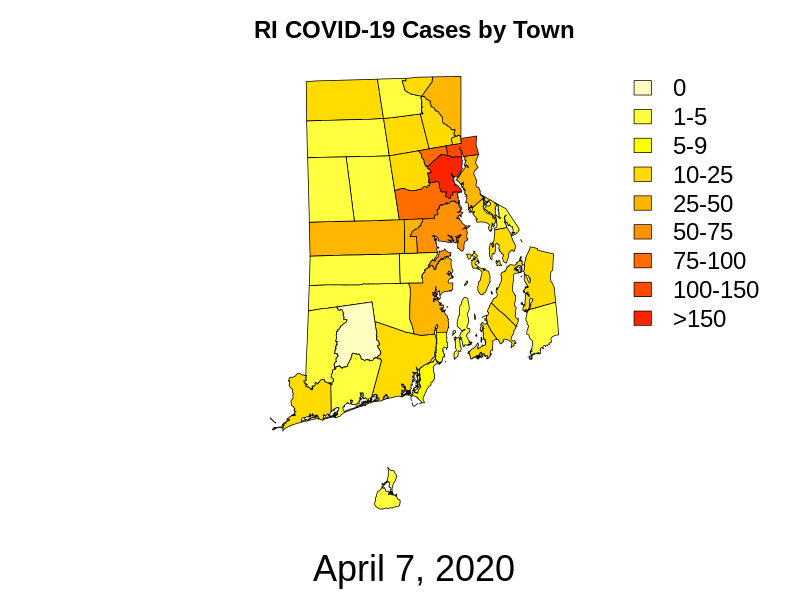
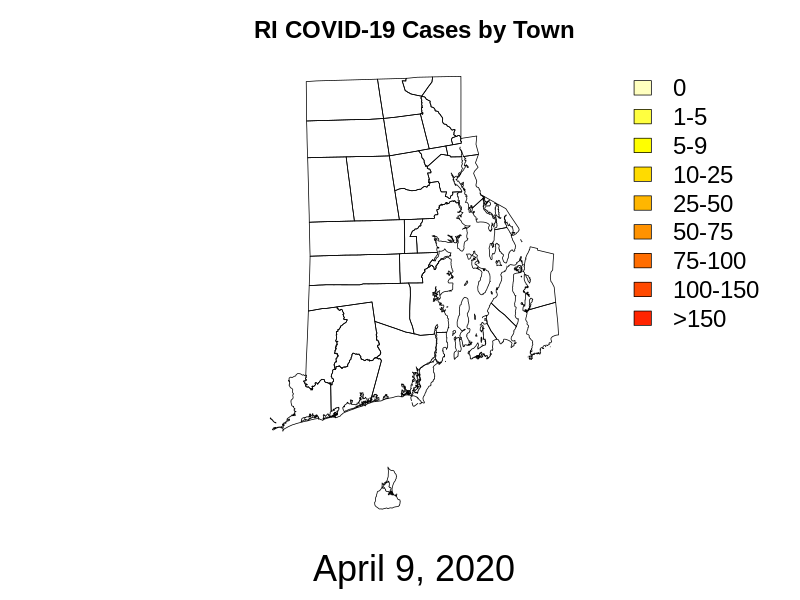
data/plot updated

Changed region(s): [[0.3438, 0.12, 0.7188, 0.72], [0.4688, 0.78, 0.5, 0.87], [0.5, 0.93, 0.5312, 0.96]]

diff --git a/index.html b/index.html
@@ -1165,48 +1165,48 @@ tt_Init();
 </script>
 <span id="tooltip" name="tooltip" class="tooltip" style="visibility:hidden;"></span>
 <map name="img-map" id="img-map">
-<area shape="circle" coords="418,89,10" onmouseover="Tip('Town&nbsp;&nbsp;:&nbsp;WOONSOCKET<br> Number&amp;nbsp;&amp;nbsp;: &amp;nbsp;20', FONTFACE,'Helvetica', FONTCOLOR, 'black', FONTSIZE, '25', BGCOLOR, '#D6E3F6')"   />
-<area shape="circle" coords="311,400,20" onmouseover="Tip('Town&nbsp;&nbsp;:&nbsp;WESTERLY<br> Number&amp;nbsp;&amp;nbsp;: &amp;nbsp;16', FONTFACE,'Helvetica', FONTCOLOR, 'black', FONTSIZE, '25', BGCOLOR, '#D6E3F6')"   />
-<area shape="circle" coords="412,237,10" onmouseover="Tip('Town&nbsp;&nbsp;:&nbsp;WEST WARWICK<br> Number&amp;nbsp;&amp;nbsp;: &amp;nbsp;28', FONTFACE,'Helvetica', FONTCOLOR, 'black', FONTSIZE, '25', BGCOLOR, '#D6E3F6')"   />
-<area shape="circle" coords="356,271,20" onmouseover="Tip('Town&nbsp;&nbsp;:&nbsp;WEST GREENWICH<br> Number&amp;nbsp;&amp;nbsp;: &amp;nbsp;<5', FONTFACE,'Helvetica', FONTCOLOR, 'black', FONTSIZE, '25', BGCOLOR, '#D6E3F6')"   />
-<area shape="circle" coords="442,231,20" onmouseover="Tip('Town&nbsp;&nbsp;:&nbsp;WARWICK<br> Number&amp;nbsp;&amp;nbsp;: &amp;nbsp;54', FONTFACE,'Helvetica', FONTCOLOR, 'black', FONTSIZE, '25', BGCOLOR, '#D6E3F6')"   />
-<area shape="circle" coords="506,222,10" onmouseover="Tip('Town&nbsp;&nbsp;:&nbsp;WARREN<br> Number&amp;nbsp;&amp;nbsp;: &amp;nbsp;<5', FONTFACE,'Helvetica', FONTCOLOR, 'black', FONTSIZE, '25', BGCOLOR, '#D6E3F6')"   />
-<area shape="circle" coords="539,281,20" onmouseover="Tip('Town&nbsp;&nbsp;:&nbsp;TIVERTON<br> Number&amp;nbsp;&amp;nbsp;: &amp;nbsp;12', FONTFACE,'Helvetica', FONTCOLOR, 'black', FONTSIZE, '25', BGCOLOR, '#D6E3F6')"   />
-<area shape="circle" coords="402,360,20" onmouseover="Tip('Town&nbsp;&nbsp;:&nbsp;SOUTH KINGSTOWN<br> Number&amp;nbsp;&amp;nbsp;: &amp;nbsp;20', FONTFACE,'Helvetica', FONTCOLOR, 'black', FONTSIZE, '25', BGCOLOR, '#D6E3F6')"   />
-<area shape="circle" coords="407,138,20" onmouseover="Tip('Town&nbsp;&nbsp;:&nbsp;SMITHFIELD<br> Number&amp;nbsp;&amp;nbsp;: &amp;nbsp;19', FONTFACE,'Helvetica', FONTCOLOR, 'black', FONTSIZE, '25', BGCOLOR, '#D6E3F6')"   />
-<area shape="circle" coords="374,191,20" onmouseover="Tip('Town&nbsp;&nbsp;:&nbsp;SCITUATE<br> Number&amp;nbsp;&amp;nbsp;: &amp;nbsp;5', FONTFACE,'Helvetica', FONTCOLOR, 'black', FONTSIZE, '25', BGCOLOR, '#D6E3F6')"   />
-<area shape="circle" coords="359,335,20" onmouseover="Tip('Town&nbsp;&nbsp;:&nbsp;RICHMOND<br> Number&amp;nbsp;&amp;nbsp;: &amp;nbsp;0', FONTFACE,'Helvetica', FONTCOLOR, 'black', FONTSIZE, '25', BGCOLOR, '#D6E3F6')"   />
-<area shape="circle" coords="447,176,15" onmouseover="Tip('Town&nbsp;&nbsp;:&nbsp;PROVIDENCE<br> Number&amp;nbsp;&amp;nbsp;: &amp;nbsp;217', FONTFACE,'Helvetica', FONTCOLOR, 'black', FONTSIZE, '25', BGCOLOR, '#D6E3F6')"   />
-<area shape="circle" coords="508,295,15" onmouseover="Tip('Town&nbsp;&nbsp;:&nbsp;PORTSMOUTH<br> Number&amp;nbsp;&amp;nbsp;: &amp;nbsp;13', FONTFACE,'Helvetica', FONTCOLOR, 'black', FONTSIZE, '25', BGCOLOR, '#D6E3F6')"   />
-<area shape="circle" coords="464,151,10" onmouseover="Tip('Town&nbsp;&nbsp;:&nbsp;PAWTUCKET<br> Number&amp;nbsp;&amp;nbsp;: &amp;nbsp;133', FONTFACE,'Helvetica', FONTCOLOR, 'black', FONTSIZE, '25', BGCOLOR, '#D6E3F6')"   />
-<area shape="circle" coords="399,103,20" onmouseover="Tip('Town&nbsp;&nbsp;:&nbsp;NORTH SMITHFIELD<br> Number&amp;nbsp;&amp;nbsp;: &amp;nbsp;5', FONTFACE,'Helvetica', FONTCOLOR, 'black', FONTSIZE, '25', BGCOLOR, '#D6E3F6')"   />
-<area shape="circle" coords="434,157,10" onmouseover="Tip('Town&nbsp;&nbsp;:&nbsp;NORTH PROVIDENCE<br> Number&amp;nbsp;&amp;nbsp;: &amp;nbsp;84', FONTFACE,'Helvetica', FONTCOLOR, 'black', FONTSIZE, '25', BGCOLOR, '#D6E3F6')"   />
-<area shape="circle" coords="431,301,20" onmouseover="Tip('Town&nbsp;&nbsp;:&nbsp;NORTH KINGSTOWN<br> Number&amp;nbsp;&amp;nbsp;: &amp;nbsp;32', FONTFACE,'Helvetica', FONTCOLOR, 'black', FONTSIZE, '25', BGCOLOR, '#D6E3F6')"   />
-<area shape="circle" coords="485,344,10" onmouseover="Tip('Town&nbsp;&nbsp;:&nbsp;NEWPORT<br> Number&amp;nbsp;&amp;nbsp;: &amp;nbsp;14', FONTFACE,'Helvetica', FONTCOLOR, 'black', FONTSIZE, '25', BGCOLOR, '#D6E3F6')"   />
-<area shape="circle" coords="389,493,15" onmouseover="Tip('Town&nbsp;&nbsp;:&nbsp;NEW SHOREHAM<br> Number&amp;nbsp;&amp;nbsp;: &amp;nbsp;<5', FONTFACE,'Helvetica', FONTCOLOR, 'black', FONTSIZE, '25', BGCOLOR, '#D6E3F6')"   />
-<area shape="circle" coords="426,380,10" onmouseover="Tip('Town&nbsp;&nbsp;:&nbsp;NARRAGANSETT<br> Number&amp;nbsp;&amp;nbsp;: &amp;nbsp;8', FONTFACE,'Helvetica', FONTCOLOR, 'black', FONTSIZE, '25', BGCOLOR, '#D6E3F6')"   />
-<area shape="circle" coords="501,326,15" onmouseover="Tip('Town&nbsp;&nbsp;:&nbsp;MIDDLETOWN<br> Number&amp;nbsp;&amp;nbsp;: &amp;nbsp;11', FONTFACE,'Helvetica', FONTCOLOR, 'black', FONTSIZE, '25', BGCOLOR, '#D6E3F6')"   />
-<area shape="circle" coords="542,327,15" onmouseover="Tip('Town&nbsp;&nbsp;:&nbsp;LITTLE COMPTON<br> Number&amp;nbsp;&amp;nbsp;: &amp;nbsp;<5', FONTFACE,'Helvetica', FONTCOLOR, 'black', FONTSIZE, '25', BGCOLOR, '#D6E3F6')"   />
-<area shape="circle" coords="436,130,15" onmouseover="Tip('Town&nbsp;&nbsp;:&nbsp;LINCOLN<br> Number&amp;nbsp;&amp;nbsp;: &amp;nbsp;13', FONTFACE,'Helvetica', FONTCOLOR, 'black', FONTSIZE, '25', BGCOLOR, '#D6E3F6')"   />
-<area shape="circle" coords="411,174,15" onmouseover="Tip('Town&nbsp;&nbsp;:&nbsp;JOHNSTON<br> Number&amp;nbsp;&amp;nbsp;: &amp;nbsp;21', FONTFACE,'Helvetica', FONTCOLOR, 'black', FONTSIZE, '25', BGCOLOR, '#D6E3F6')"   />
-<area shape="circle" coords="464,327,15" onmouseover="Tip('Town&nbsp;&nbsp;:&nbsp;JAMESTOWN<br> Number&amp;nbsp;&amp;nbsp;: &amp;nbsp;5', FONTFACE,'Helvetica', FONTCOLOR, 'black', FONTSIZE, '25', BGCOLOR, '#D6E3F6')"   />
-<area shape="circle" coords="324,345,20" onmouseover="Tip('Town&nbsp;&nbsp;:&nbsp;HOPKINTON<br> Number&amp;nbsp;&amp;nbsp;: &amp;nbsp;<5', FONTFACE,'Helvetica', FONTCOLOR, 'black', FONTSIZE, '25', BGCOLOR, '#D6E3F6')"   />
-<area shape="circle" coords="349,142,20" onmouseover="Tip('Town&nbsp;&nbsp;:&nbsp;GLOCESTER<br> Number&amp;nbsp;&amp;nbsp;: &amp;nbsp;<5', FONTFACE,'Helvetica', FONTCOLOR, 'black', FONTSIZE, '25', BGCOLOR, '#D6E3F6')"   />
-<area shape="circle" coords="331,193,20" onmouseover="Tip('Town&nbsp;&nbsp;:&nbsp;FOSTER<br> Number&amp;nbsp;&amp;nbsp;: &amp;nbsp;<5', FONTFACE,'Helvetica', FONTCOLOR, 'black', FONTSIZE, '25', BGCOLOR, '#D6E3F6')"   />
-<area shape="circle" coords="370,302,20" onmouseover="Tip('Town&nbsp;&nbsp;:&nbsp;EXETER<br> Number&amp;nbsp;&amp;nbsp;: &amp;nbsp;<5', FONTFACE,'Helvetica', FONTCOLOR, 'black', FONTSIZE, '25', BGCOLOR, '#D6E3F6')"   />
-<area shape="circle" coords="471,184,15" onmouseover="Tip('Town&nbsp;&nbsp;:&nbsp;EAST PROVIDENCE<br> Number&amp;nbsp;&amp;nbsp;: &amp;nbsp;41', FONTFACE,'Helvetica', FONTCOLOR, 'black', FONTSIZE, '25', BGCOLOR, '#D6E3F6')"   />
-<area shape="circle" coords="416,268,15" onmouseover="Tip('Town&nbsp;&nbsp;:&nbsp;EAST GREENWICH<br> Number&amp;nbsp;&amp;nbsp;: &amp;nbsp;5', FONTFACE,'Helvetica', FONTCOLOR, 'black', FONTSIZE, '25', BGCOLOR, '#D6E3F6')"   />
-<area shape="circle" coords="448,104,20" onmouseover="Tip('Town&nbsp;&nbsp;:&nbsp;CUMBERLAND<br> Number&amp;nbsp;&amp;nbsp;: &amp;nbsp;34', FONTFACE,'Helvetica', FONTCOLOR, 'black', FONTSIZE, '25', BGCOLOR, '#D6E3F6')"   />
-<area shape="circle" coords="423,204,20" onmouseover="Tip('Town&nbsp;&nbsp;:&nbsp;CRANSTON<br> Number&amp;nbsp;&amp;nbsp;: &amp;nbsp;90', FONTFACE,'Helvetica', FONTCOLOR, 'black', FONTSIZE, '25', BGCOLOR, '#D6E3F6')"   />
-<area shape="circle" coords="359,240,20" onmouseover="Tip('Town&nbsp;&nbsp;:&nbsp;COVENTRY<br> Number&amp;nbsp;&amp;nbsp;: &amp;nbsp;37', FONTFACE,'Helvetica', FONTCOLOR, 'black', FONTSIZE, '25', BGCOLOR, '#D6E3F6')"   />
-<area shape="circle" coords="355,383,20" onmouseover="Tip('Town&nbsp;&nbsp;:&nbsp;CHARLESTOWN<br> Number&amp;nbsp;&amp;nbsp;: &amp;nbsp;<5', FONTFACE,'Helvetica', FONTCOLOR, 'black', FONTSIZE, '25', BGCOLOR, '#D6E3F6')"   />
-<area shape="circle" coords="457,143,10" onmouseover="Tip('Town&nbsp;&nbsp;:&nbsp;CENTRAL FALLS<br> Number&amp;nbsp;&amp;nbsp;: &amp;nbsp;15', FONTFACE,'Helvetica', FONTCOLOR, 'black', FONTSIZE, '25', BGCOLOR, '#D6E3F6')"   />
-<area shape="circle" coords="345,104,20" onmouseover="Tip('Town&nbsp;&nbsp;:&nbsp;BURRILLVILLE<br> Number&amp;nbsp;&amp;nbsp;: &amp;nbsp;16', FONTFACE,'Helvetica', FONTCOLOR, 'black', FONTSIZE, '25', BGCOLOR, '#D6E3F6')"   />
-<area shape="circle" coords="503,245,15" onmouseover="Tip('Town&nbsp;&nbsp;:&nbsp;BRISTOL<br> Number&amp;nbsp;&amp;nbsp;: &amp;nbsp;14', FONTFACE,'Helvetica', FONTCOLOR, 'black', FONTSIZE, '25', BGCOLOR, '#D6E3F6')"   />
-<area shape="circle" coords="484,217,10" onmouseover="Tip('Town&nbsp;&nbsp;:&nbsp;BARRINGTON<br> Number&amp;nbsp;&amp;nbsp;: &amp;nbsp;15', FONTFACE,'Helvetica', FONTCOLOR, 'black', FONTSIZE, '25', BGCOLOR, '#D6E3F6')"   />
-<area shape="circle" coords="482,278,10" onmouseover="Tip('Town&nbsp;&nbsp;:&nbsp;PORTSMOUTH<br> Number&amp;nbsp;&amp;nbsp;: &amp;nbsp;13', FONTFACE,'Helvetica', FONTCOLOR, 'black', FONTSIZE, '25', BGCOLOR, '#D6E3F6')"   />
-<area shape="circle" coords="442,346,10" onmouseover="Tip('Town&nbsp;&nbsp;:&nbsp;NARRAGANSETT<br> Number&amp;nbsp;&amp;nbsp;: &amp;nbsp;8', FONTFACE,'Helvetica', FONTCOLOR, 'black', FONTSIZE, '25', BGCOLOR, '#D6E3F6')"   />
-<area shape="circle" coords="441,260,10" onmouseover="Tip('Town&nbsp;&nbsp;:&nbsp;WARWICK<br> Number&amp;nbsp;&amp;nbsp;: &amp;nbsp;54', FONTFACE,'Helvetica', FONTCOLOR, 'black', FONTSIZE, '25', BGCOLOR, '#D6E3F6')"   />
+<area shape="circle" coords="418,89,10" onmouseover="Tip('Town&nbsp;&nbsp;:&nbsp;WOONSOCKET<br> Number&amp;nbsp;&amp;nbsp;: &amp;nbsp;NA', FONTFACE,'Helvetica', FONTCOLOR, 'black', FONTSIZE, '25', BGCOLOR, '#D6E3F6')"   />
+<area shape="circle" coords="311,400,20" onmouseover="Tip('Town&nbsp;&nbsp;:&nbsp;WESTERLY<br> Number&amp;nbsp;&amp;nbsp;: &amp;nbsp;NA', FONTFACE,'Helvetica', FONTCOLOR, 'black', FONTSIZE, '25', BGCOLOR, '#D6E3F6')"   />
+<area shape="circle" coords="412,237,10" onmouseover="Tip('Town&nbsp;&nbsp;:&nbsp;WEST WARWICK<br> Number&amp;nbsp;&amp;nbsp;: &amp;nbsp;NA', FONTFACE,'Helvetica', FONTCOLOR, 'black', FONTSIZE, '25', BGCOLOR, '#D6E3F6')"   />
+<area shape="circle" coords="356,271,20" onmouseover="Tip('Town&nbsp;&nbsp;:&nbsp;WEST GREENWICH<br> Number&amp;nbsp;&amp;nbsp;: &amp;nbsp;NA', FONTFACE,'Helvetica', FONTCOLOR, 'black', FONTSIZE, '25', BGCOLOR, '#D6E3F6')"   />
+<area shape="circle" coords="442,231,20" onmouseover="Tip('Town&nbsp;&nbsp;:&nbsp;WARWICK<br> Number&amp;nbsp;&amp;nbsp;: &amp;nbsp;NA', FONTFACE,'Helvetica', FONTCOLOR, 'black', FONTSIZE, '25', BGCOLOR, '#D6E3F6')"   />
+<area shape="circle" coords="506,222,10" onmouseover="Tip('Town&nbsp;&nbsp;:&nbsp;WARREN<br> Number&amp;nbsp;&amp;nbsp;: &amp;nbsp;NA', FONTFACE,'Helvetica', FONTCOLOR, 'black', FONTSIZE, '25', BGCOLOR, '#D6E3F6')"   />
+<area shape="circle" coords="539,281,20" onmouseover="Tip('Town&nbsp;&nbsp;:&nbsp;TIVERTON<br> Number&amp;nbsp;&amp;nbsp;: &amp;nbsp;NA', FONTFACE,'Helvetica', FONTCOLOR, 'black', FONTSIZE, '25', BGCOLOR, '#D6E3F6')"   />
+<area shape="circle" coords="402,360,20" onmouseover="Tip('Town&nbsp;&nbsp;:&nbsp;SOUTH KINGSTOWN<br> Number&amp;nbsp;&amp;nbsp;: &amp;nbsp;NA', FONTFACE,'Helvetica', FONTCOLOR, 'black', FONTSIZE, '25', BGCOLOR, '#D6E3F6')"   />
+<area shape="circle" coords="407,138,20" onmouseover="Tip('Town&nbsp;&nbsp;:&nbsp;SMITHFIELD<br> Number&amp;nbsp;&amp;nbsp;: &amp;nbsp;NA', FONTFACE,'Helvetica', FONTCOLOR, 'black', FONTSIZE, '25', BGCOLOR, '#D6E3F6')"   />
+<area shape="circle" coords="374,191,20" onmouseover="Tip('Town&nbsp;&nbsp;:&nbsp;SCITUATE<br> Number&amp;nbsp;&amp;nbsp;: &amp;nbsp;NA', FONTFACE,'Helvetica', FONTCOLOR, 'black', FONTSIZE, '25', BGCOLOR, '#D6E3F6')"   />
+<area shape="circle" coords="359,335,20" onmouseover="Tip('Town&nbsp;&nbsp;:&nbsp;RICHMOND<br> Number&amp;nbsp;&amp;nbsp;: &amp;nbsp;NA', FONTFACE,'Helvetica', FONTCOLOR, 'black', FONTSIZE, '25', BGCOLOR, '#D6E3F6')"   />
+<area shape="circle" coords="447,176,15" onmouseover="Tip('Town&nbsp;&nbsp;:&nbsp;PROVIDENCE<br> Number&amp;nbsp;&amp;nbsp;: &amp;nbsp;NA', FONTFACE,'Helvetica', FONTCOLOR, 'black', FONTSIZE, '25', BGCOLOR, '#D6E3F6')"   />
+<area shape="circle" coords="508,295,15" onmouseover="Tip('Town&nbsp;&nbsp;:&nbsp;PORTSMOUTH<br> Number&amp;nbsp;&amp;nbsp;: &amp;nbsp;NA', FONTFACE,'Helvetica', FONTCOLOR, 'black', FONTSIZE, '25', BGCOLOR, '#D6E3F6')"   />
+<area shape="circle" coords="464,151,10" onmouseover="Tip('Town&nbsp;&nbsp;:&nbsp;PAWTUCKET<br> Number&amp;nbsp;&amp;nbsp;: &amp;nbsp;NA', FONTFACE,'Helvetica', FONTCOLOR, 'black', FONTSIZE, '25', BGCOLOR, '#D6E3F6')"   />
+<area shape="circle" coords="399,103,20" onmouseover="Tip('Town&nbsp;&nbsp;:&nbsp;NORTH SMITHFIELD<br> Number&amp;nbsp;&amp;nbsp;: &amp;nbsp;NA', FONTFACE,'Helvetica', FONTCOLOR, 'black', FONTSIZE, '25', BGCOLOR, '#D6E3F6')"   />
+<area shape="circle" coords="434,157,10" onmouseover="Tip('Town&nbsp;&nbsp;:&nbsp;NORTH PROVIDENCE<br> Number&amp;nbsp;&amp;nbsp;: &amp;nbsp;NA', FONTFACE,'Helvetica', FONTCOLOR, 'black', FONTSIZE, '25', BGCOLOR, '#D6E3F6')"   />
+<area shape="circle" coords="431,301,20" onmouseover="Tip('Town&nbsp;&nbsp;:&nbsp;NORTH KINGSTOWN<br> Number&amp;nbsp;&amp;nbsp;: &amp;nbsp;NA', FONTFACE,'Helvetica', FONTCOLOR, 'black', FONTSIZE, '25', BGCOLOR, '#D6E3F6')"   />
+<area shape="circle" coords="485,344,10" onmouseover="Tip('Town&nbsp;&nbsp;:&nbsp;NEWPORT<br> Number&amp;nbsp;&amp;nbsp;: &amp;nbsp;NA', FONTFACE,'Helvetica', FONTCOLOR, 'black', FONTSIZE, '25', BGCOLOR, '#D6E3F6')"   />
+<area shape="circle" coords="389,493,15" onmouseover="Tip('Town&nbsp;&nbsp;:&nbsp;NEW SHOREHAM<br> Number&amp;nbsp;&amp;nbsp;: &amp;nbsp;NA', FONTFACE,'Helvetica', FONTCOLOR, 'black', FONTSIZE, '25', BGCOLOR, '#D6E3F6')"   />
+<area shape="circle" coords="426,380,10" onmouseover="Tip('Town&nbsp;&nbsp;:&nbsp;NARRAGANSETT<br> Number&amp;nbsp;&amp;nbsp;: &amp;nbsp;NA', FONTFACE,'Helvetica', FONTCOLOR, 'black', FONTSIZE, '25', BGCOLOR, '#D6E3F6')"   />
+<area shape="circle" coords="501,326,15" onmouseover="Tip('Town&nbsp;&nbsp;:&nbsp;MIDDLETOWN<br> Number&amp;nbsp;&amp;nbsp;: &amp;nbsp;NA', FONTFACE,'Helvetica', FONTCOLOR, 'black', FONTSIZE, '25', BGCOLOR, '#D6E3F6')"   />
+<area shape="circle" coords="542,327,15" onmouseover="Tip('Town&nbsp;&nbsp;:&nbsp;LITTLE COMPTON<br> Number&amp;nbsp;&amp;nbsp;: &amp;nbsp;NA', FONTFACE,'Helvetica', FONTCOLOR, 'black', FONTSIZE, '25', BGCOLOR, '#D6E3F6')"   />
+<area shape="circle" coords="436,130,15" onmouseover="Tip('Town&nbsp;&nbsp;:&nbsp;LINCOLN<br> Number&amp;nbsp;&amp;nbsp;: &amp;nbsp;NA', FONTFACE,'Helvetica', FONTCOLOR, 'black', FONTSIZE, '25', BGCOLOR, '#D6E3F6')"   />
+<area shape="circle" coords="411,174,15" onmouseover="Tip('Town&nbsp;&nbsp;:&nbsp;JOHNSTON<br> Number&amp;nbsp;&amp;nbsp;: &amp;nbsp;NA', FONTFACE,'Helvetica', FONTCOLOR, 'black', FONTSIZE, '25', BGCOLOR, '#D6E3F6')"   />
+<area shape="circle" coords="464,327,15" onmouseover="Tip('Town&nbsp;&nbsp;:&nbsp;JAMESTOWN<br> Number&amp;nbsp;&amp;nbsp;: &amp;nbsp;NA', FONTFACE,'Helvetica', FONTCOLOR, 'black', FONTSIZE, '25', BGCOLOR, '#D6E3F6')"   />
+<area shape="circle" coords="324,345,20" onmouseover="Tip('Town&nbsp;&nbsp;:&nbsp;HOPKINTON<br> Number&amp;nbsp;&amp;nbsp;: &amp;nbsp;NA', FONTFACE,'Helvetica', FONTCOLOR, 'black', FONTSIZE, '25', BGCOLOR, '#D6E3F6')"   />
+<area shape="circle" coords="349,142,20" onmouseover="Tip('Town&nbsp;&nbsp;:&nbsp;GLOCESTER<br> Number&amp;nbsp;&amp;nbsp;: &amp;nbsp;NA', FONTFACE,'Helvetica', FONTCOLOR, 'black', FONTSIZE, '25', BGCOLOR, '#D6E3F6')"   />
+<area shape="circle" coords="331,193,20" onmouseover="Tip('Town&nbsp;&nbsp;:&nbsp;FOSTER<br> Number&amp;nbsp;&amp;nbsp;: &amp;nbsp;NA', FONTFACE,'Helvetica', FONTCOLOR, 'black', FONTSIZE, '25', BGCOLOR, '#D6E3F6')"   />
+<area shape="circle" coords="370,302,20" onmouseover="Tip('Town&nbsp;&nbsp;:&nbsp;EXETER<br> Number&amp;nbsp;&amp;nbsp;: &amp;nbsp;NA', FONTFACE,'Helvetica', FONTCOLOR, 'black', FONTSIZE, '25', BGCOLOR, '#D6E3F6')"   />
+<area shape="circle" coords="471,184,15" onmouseover="Tip('Town&nbsp;&nbsp;:&nbsp;EAST PROVIDENCE<br> Number&amp;nbsp;&amp;nbsp;: &amp;nbsp;NA', FONTFACE,'Helvetica', FONTCOLOR, 'black', FONTSIZE, '25', BGCOLOR, '#D6E3F6')"   />
+<area shape="circle" coords="416,268,15" onmouseover="Tip('Town&nbsp;&nbsp;:&nbsp;EAST GREENWICH<br> Number&amp;nbsp;&amp;nbsp;: &amp;nbsp;NA', FONTFACE,'Helvetica', FONTCOLOR, 'black', FONTSIZE, '25', BGCOLOR, '#D6E3F6')"   />
+<area shape="circle" coords="448,104,20" onmouseover="Tip('Town&nbsp;&nbsp;:&nbsp;CUMBERLAND<br> Number&amp;nbsp;&amp;nbsp;: &amp;nbsp;NA', FONTFACE,'Helvetica', FONTCOLOR, 'black', FONTSIZE, '25', BGCOLOR, '#D6E3F6')"   />
+<area shape="circle" coords="423,204,20" onmouseover="Tip('Town&nbsp;&nbsp;:&nbsp;CRANSTON<br> Number&amp;nbsp;&amp;nbsp;: &amp;nbsp;NA', FONTFACE,'Helvetica', FONTCOLOR, 'black', FONTSIZE, '25', BGCOLOR, '#D6E3F6')"   />
+<area shape="circle" coords="359,240,20" onmouseover="Tip('Town&nbsp;&nbsp;:&nbsp;COVENTRY<br> Number&amp;nbsp;&amp;nbsp;: &amp;nbsp;NA', FONTFACE,'Helvetica', FONTCOLOR, 'black', FONTSIZE, '25', BGCOLOR, '#D6E3F6')"   />
+<area shape="circle" coords="355,383,20" onmouseover="Tip('Town&nbsp;&nbsp;:&nbsp;CHARLESTOWN<br> Number&amp;nbsp;&amp;nbsp;: &amp;nbsp;NA', FONTFACE,'Helvetica', FONTCOLOR, 'black', FONTSIZE, '25', BGCOLOR, '#D6E3F6')"   />
+<area shape="circle" coords="457,143,10" onmouseover="Tip('Town&nbsp;&nbsp;:&nbsp;CENTRAL FALLS<br> Number&amp;nbsp;&amp;nbsp;: &amp;nbsp;NA', FONTFACE,'Helvetica', FONTCOLOR, 'black', FONTSIZE, '25', BGCOLOR, '#D6E3F6')"   />
+<area shape="circle" coords="345,104,20" onmouseover="Tip('Town&nbsp;&nbsp;:&nbsp;BURRILLVILLE<br> Number&amp;nbsp;&amp;nbsp;: &amp;nbsp;NA', FONTFACE,'Helvetica', FONTCOLOR, 'black', FONTSIZE, '25', BGCOLOR, '#D6E3F6')"   />
+<area shape="circle" coords="503,245,15" onmouseover="Tip('Town&nbsp;&nbsp;:&nbsp;BRISTOL<br> Number&amp;nbsp;&amp;nbsp;: &amp;nbsp;NA', FONTFACE,'Helvetica', FONTCOLOR, 'black', FONTSIZE, '25', BGCOLOR, '#D6E3F6')"   />
+<area shape="circle" coords="484,217,10" onmouseover="Tip('Town&nbsp;&nbsp;:&nbsp;BARRINGTON<br> Number&amp;nbsp;&amp;nbsp;: &amp;nbsp;NA', FONTFACE,'Helvetica', FONTCOLOR, 'black', FONTSIZE, '25', BGCOLOR, '#D6E3F6')"   />
+<area shape="circle" coords="482,278,10" onmouseover="Tip('Town&nbsp;&nbsp;:&nbsp;PORTSMOUTH<br> Number&amp;nbsp;&amp;nbsp;: &amp;nbsp;NA', FONTFACE,'Helvetica', FONTCOLOR, 'black', FONTSIZE, '25', BGCOLOR, '#D6E3F6')"   />
+<area shape="circle" coords="442,346,10" onmouseover="Tip('Town&nbsp;&nbsp;:&nbsp;NARRAGANSETT<br> Number&amp;nbsp;&amp;nbsp;: &amp;nbsp;NA', FONTFACE,'Helvetica', FONTCOLOR, 'black', FONTSIZE, '25', BGCOLOR, '#D6E3F6')"   />
+<area shape="circle" coords="441,260,10" onmouseover="Tip('Town&nbsp;&nbsp;:&nbsp;WARWICK<br> Number&amp;nbsp;&amp;nbsp;: &amp;nbsp;NA', FONTFACE,'Helvetica', FONTCOLOR, 'black', FONTSIZE, '25', BGCOLOR, '#D6E3F6')"   />
 </map>
 <div class="plot">
 <img border="0" src="plot.png" usemap="#img-map" />
